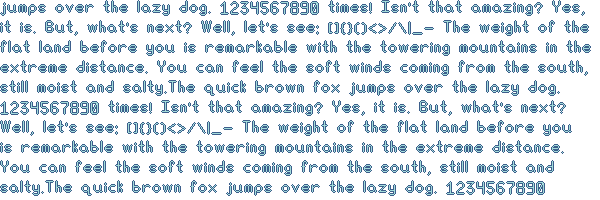
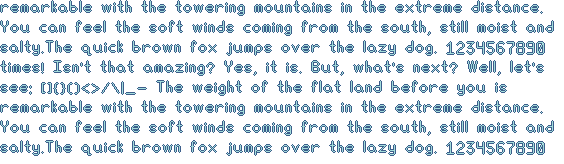
things

diff --git a/testing_font.py b/testing_font.py
@@ -53,8 +53,84 @@ def save_surfaces(surfaces, save_path):
         for i, surface in enumerate(surfaces):
             pygame.image.save(surface, os.path.join(save_path, f'surface_{i}.png'))
 
+def convert_text_to_surface(font, text, width, height):
+    """
+    Convert a text string into a surface with the text rendered in the font
+    :param font: The font component to use for rendering the text
+    :param text: The text string to render
+    :param width: The width of the surface to render the text on
+    :param height: The height of the surface to render the text on
+    :return: A surface with the text rendered in the font
+    """
 
-def convert_text_to_surfaces(screen, font, text, width, height):
+    # split the words into a list list of words
+    words = text.split(" ")
+    lines = []
+    current_line = ""
+    current_line_width = 0
+
+    # add words until adding one would make its width is longer than the width of the box
+    # so we need to get a word, then check if the current length plus the new word length fits, if it does, add it
+    # if it does not finish the line
+    # if there are still more words, start a new current line if the sum of all the heights of the lines in lines is
+    # less than the height of the box
+
+    for word in words:
+        current_word_width = 0  # Start with the width of 0
+        for letter in word:
+            if letter in font.character_list:
+                current_word_width += font.characters[letter].width + font.spacing  # Add the width of the letter and the spacing
+            else:
+                print(f"Character {letter} not found in font character list")
+                continue  # Skip the letter if it's not in the character list
+    
+        # Check if adding the word would fit in the current box
+        if (current_line_width + current_word_width + font.space_width) <= width:
+            current_line += word
+            current_line_width += current_word_width
+            if word != words[-1]:  # If the word is not the last one in the line
+                current_line += " "
+                current_line_width += font.space_width  # Add the width of the space character here
+        # If not append the line, add the word to the new current_line
+        else:
+            lines.append(current_line.strip())  # Remove trailing space from the line
+            current_line = word
+            current_line_width = current_word_width
+            if word != words[-1]:  # If the word is not the last one in the line
+                current_line += " "
+                current_line_width += font.space_width  # Add the width of the space character here
+    
+    lines.append(current_line.strip())  # Remove trailing space from the last line
+
+    for i in range(0, len(lines), height // font.line_height):
+        surface = pygame.Surface((width, height), pygame.SRCALPHA)  # Create a surface with per-pixel alpha
+        surface.fill((0, 0, 0, 0))  # Fill the surface with a transparent color
+
+        x_offset = 0
+        y_offset = 0
+        for line in lines[i:i + height // font.line_height]:
+            for letter in line:
+                if letter in font.character_list:
+                    char = font.characters[letter]
+                    surface.blit(char.sprite, (x_offset, y_offset))
+                    x_offset += char.width + font.spacing
+                elif letter == " ":
+                    x_offset += font.space_width
+                elif letter == "\n":
+                    x_offset = 0
+                    y_offset += font.line_height
+            y_offset += font.line_height
+            x_offset = 0
+                    
+    # Get the bounding rectangle of the non-transparent area
+    bounding_rect = surface.get_bounding_rect()
+
+    # Create a new surface that represents the non-transparent area of the original surface
+    trimmed_surface = surface.subsurface(bounding_rect)
+
+    return trimmed_surface
+
+def convert_text_to_surfaces(font, text, width, height):
     # split the words into a list list of words
     words = text.split(" ")
     lines = []
@@ -202,14 +278,19 @@ def create_arrow_surface(border):
     # Return the new surface with the arrow
     return surface
 
+def create_surface(image_location):
+    return pygame.image.load(image_location).convert_alpha()
+
+
 def main():
     # Initialize Pygame
     pygame.init()
 
     # Set up some constants
     SCREEN_WIDTH, SCREEN_HEIGHT = 800, 600
-    SAMPLE_TEXT = "The quick brown fox jumps over the lazy dog. 1234567890 times! Isn't that amazing? Yes, it is. But, what's next? Well, let's see: []{}()<>/\\|_- The weight of the flat land before you is remarkable with the towering mountains in the extreme distance. You can feel the soft winds coming from the south, still moist and salty. The quick brown fox jumps over the lazy dog. 1234567890 times! Isn't that amazing? Yes, it is. But, what's next? Well, let's see: []{}()<>/\\|_- The weight of the flat land before you is remarkable with the towering mountains in the extreme distance. You can feel the soft winds coming from the south, still moist and salty.The quick brown fox jumps over the lazy dog. 1234567890 times! Isn't that amazing? Yes, it is. But, what's next? Well, let's see: []{}()<>/\\|_- The weight of the flat land before you is remarkable with the towering mountains in the extreme distance. You can feel the soft winds coming from the south, still moist and salty.The quick brown fox jumps over the lazy dog. 1234567890 times! Isn't that amazing? Yes, it is. But, what's next? Well, let's see: []{}()<>/\\|_- The weight of the flat land before you is remarkable with the towering mountains in the extreme distance. You can feel the soft winds coming from the south, still moist and salty.The quick brown fox jumps over the lazy dog. 1234567890 times! Isn't that amazing? Yes, it is. But, what's next? Well, let's see: []{}()<>/\\|_- The weight of the flat land before you is remarkable with the towering mountains in the extreme distance. You can feel the soft winds coming from the south, still moist and salty.The quick brown fox jumps over the lazy dog. 1234567890 times! Isn't that amazing? Yes, it is. But, what's next? Well, let's see: []{}()<>/\\|_- The weight of the flat land before you is remarkable with the towering mountains in the extreme distance. You can feel the soft winds coming from the south, still moist and salty.The quick brown fox jumps over the lazy dog. 1234567890 times! Isn't that amazing? Yes, it is. But, what's next? Well, let's see: []{}()<>/\\|_- The weight of the flat land before you is remarkable with the towering mountains in the extreme distance. You can feel the soft winds coming from the south, still moist and salty."
-    SAMPLE_RESPONSES = ["Yes", "No", "Maybe"]
+    SAMPLE_TEXT = "Only through meditation do enternitie's creep not lead to madness. Long I have awaited your arrival, someone must come. Yes, yes. Enigma."
+    SAMPLE_RESPONSES = ["1. Yes", "2. No", "3. Maybeazy dog. 1234567890 times! Isn't that amazing? Yes, it is. But, what's next? Well, let's see: []{}()", "4. Hi dog"]
+
 
     # strip the text of leading and trailing whitespace
     SAMPLE_TEXT = '\n'.join(line.strip() for line in SAMPLE_TEXT.split('\n'))
@@ -223,6 +304,9 @@ def main():
     # Create a screen
     screen = pygame.display.set_mode((SCREEN_WIDTH, SCREEN_HEIGHT))
 
+    BACKGROUND_IMAGE = create_surface("images/unsorted/scene_meeting_ancient_advisor.png")
+    BACKGROUND_IMAGE = pygame.transform.scale(BACKGROUND_IMAGE, (SCREEN_WIDTH, SCREEN_HEIGHT))
+
     # Create a FontComponent
     #font = FontComponent("entities/textbox/test_font.json")
     #font = FontComponent("entities/textbox/test_font_16x16.json")
@@ -233,35 +317,30 @@ def main():
 
     x = 100
     y = 100
-    width = 600
-    height = 200
+    surface_width = 600
+    surface_height = 200
 
-    number_of_responses = len(SAMPLE_RESPONSES)
+    # Calculate the width and height of the text area based on the border
+    text_area_width = surface_width - border.left_thickness - border.right_thickness
+    text_area_height = surface_height - border.top_thickness - border.bottom_thickness
 
+    # index to track the current text surface
     current_surface_index = 0
 
-    surfaces = convert_text_to_surfaces(screen, font, SAMPLE_TEXT, width, height)
-    border_image = create_text_box_surface(border, 
-                                           width + border.left_thickness + border.right_thickness+border.arrow_width, 
-                                           height+ border.top_thickness+ border.bottom_thickness 
-                                           )
-    arrow_image = create_arrow_surface(border)
-
-    x_response = 100
-    y_response = 330
-    width_response = 600
-    width_height = 40
-    surfaces_responses = []
-    border_responses = []
-    for response in SAMPLE_RESPONSES:
-        surfaces_responses.append(convert_text_to_surfaces(screen, font, response, width_response, width_height))
-        border_responses.append(create_text_box_surface(border, 
-                                                  width_response + border.left_thickness + border.right_thickness+border.arrow_width, 
-                                                  width_height + border.top_thickness+ border.bottom_thickness 
-                                                  ))
-
+    border_image = create_text_box_surface(border, surface_width, surface_height)
+    surfaces = convert_text_to_surfaces(font, SAMPLE_TEXT, text_area_width, text_area_height)
+   
     save_path = "images/textbox/surfaces"
     save_surfaces(surfaces, save_path)
+
+    # Create the response surfaces
+    response_surface_width = 600
+    response_surface_height = 100
+
+    response_surfaces = []
+    for response in SAMPLE_RESPONSES:
+        response_surfaces.append(convert_text_to_surface(font, response, response_surface_width, response_surface_height))
+
 
     # Wait until the user closes the window
     while True:
@@ -278,19 +357,16 @@ def main():
         screen.fill((0, 0, 0))  # Clear the screen
         #pygame.draw.rect(screen, (0, 55, 55), (x-1, y-1, width+2, height+2), 0)  # Draw the box
 
+        screen.blit(BACKGROUND_IMAGE, (0, 0))  # Draw the background image
+
         screen.blit(border_image, (x - border.left_thickness, y - border.top_thickness))  # Draw the border)
-        screen.blit(arrow_image, (x + width, y))  # Draw the arrow
         screen.blit(surfaces[current_surface_index], (x, y))  # Draw the current surface
 
-        offset = 0
-        for response_border in border_responses:
-            screen.blit(response_border, (x_response - border.left_thickness, y_response - border.top_thickness + offset))
-            offset += response_border.get_height()
+        y_offset = 0
+        for i in range(len(response_surfaces)):
+            screen.blit(response_surfaces[i], (x, y + surface_height + y_offset))
+            y_offset += response_surfaces[i].get_height()
 
-        offset = 0
-        for surface in surfaces_responses:
-            screen.blit(surface[0], (x_response, y_response + offset))
-            offset += surface[0].get_height()
 
         pygame.display.flip()  # Update the display
 
